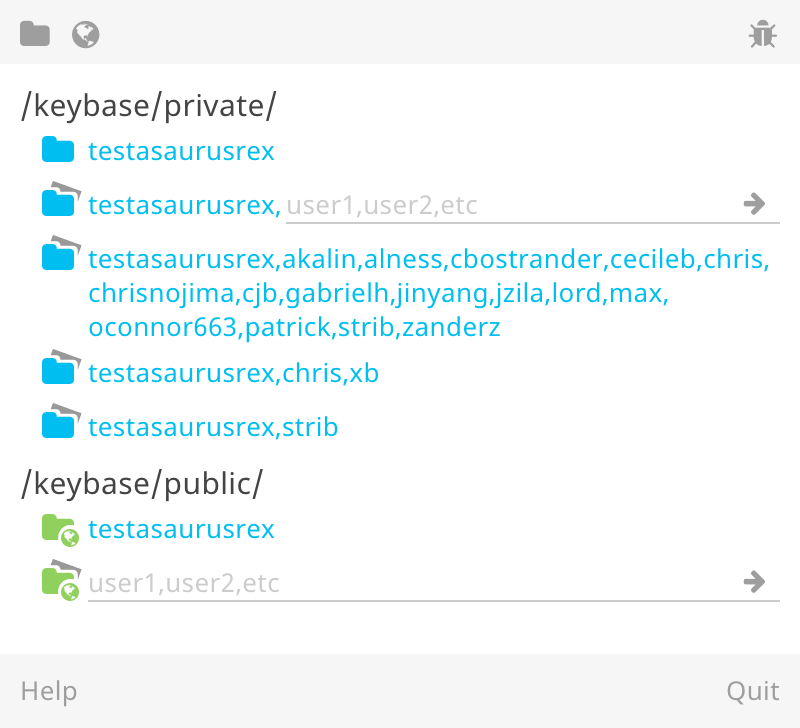
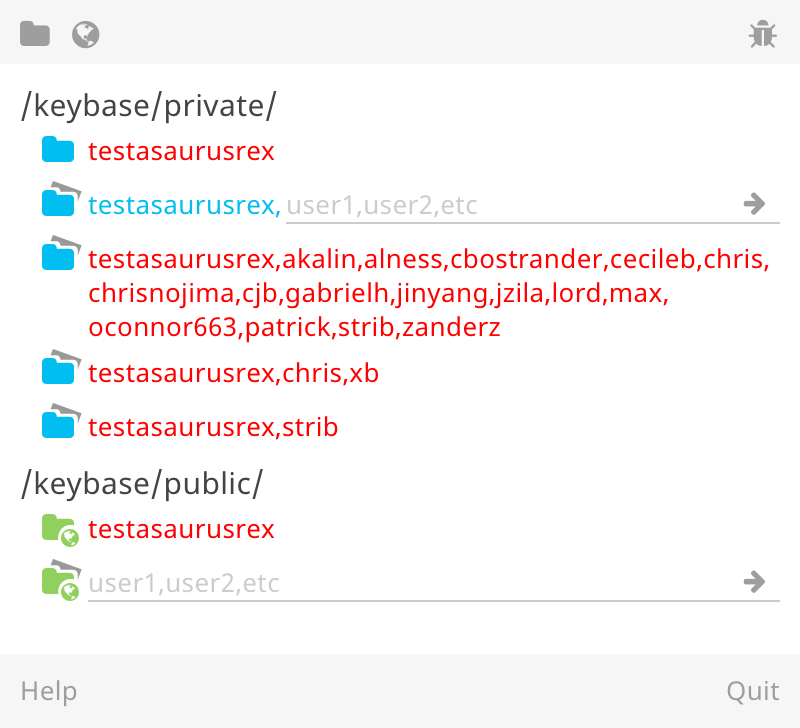
WIP: Demo update styling

diff --git a/shared/menubar/index.render.desktop.js b/shared/menubar/index.render.desktop.js
@@ -135,7 +135,7 @@ const FolderRow = props => {
     text={text}
     allowWrap
     iconStyle={SVGFolderIcon(iconPath(isPublic, isEmpty))}
-    textStyle={{color: globalColors.blue}}
+    textStyle={{color: 'red'}}
     key={isPublic + text.join('')}/>
 }
 
